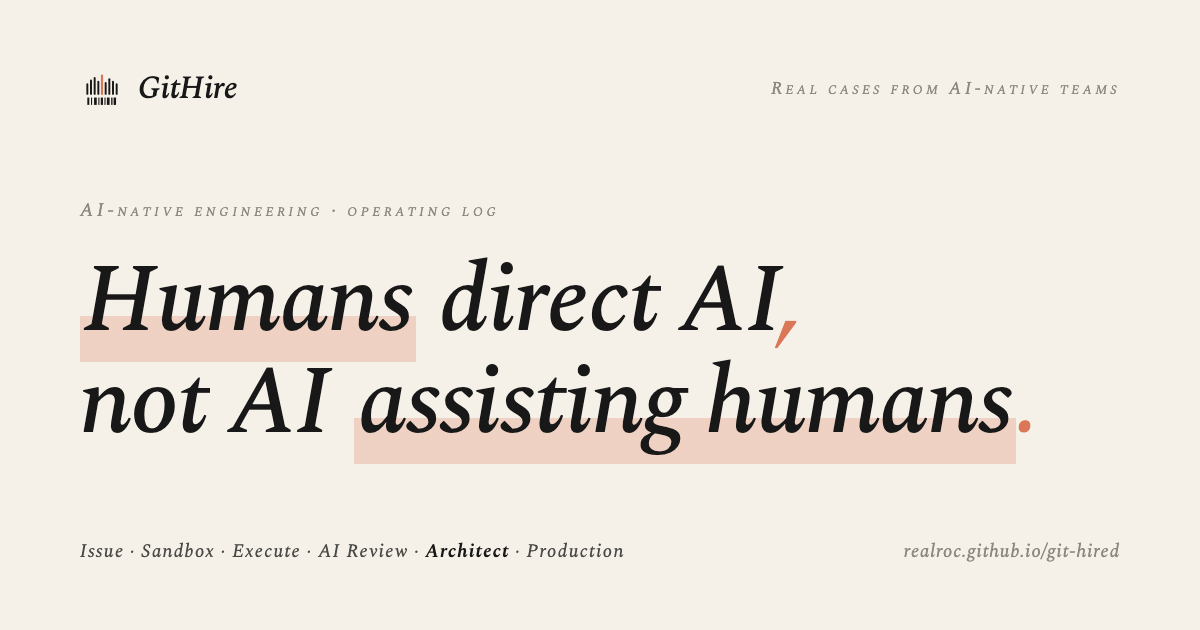
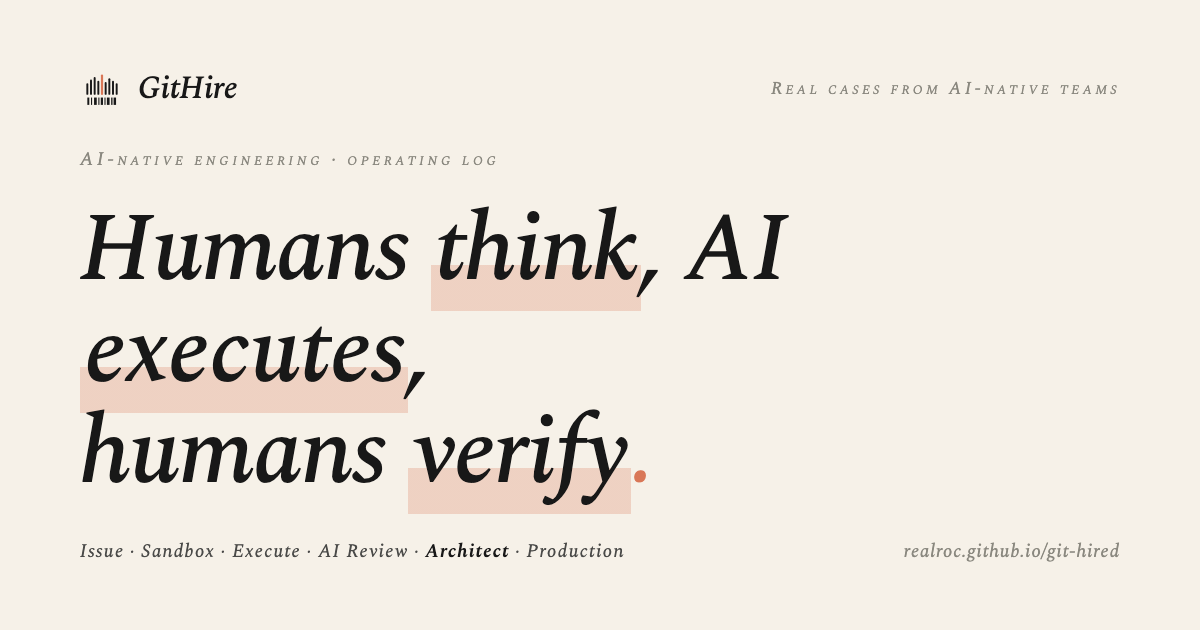
fix(review): OG 卡片同步新 slogan 并重新生成 og.png / og.en.png
og-card.html / og-card.en.html 的 hero 标题仍是旧 slogan，
导致社交分享图与全站新文案「人思考，AI 执行，人验收」不一致。
更新两份卡片源并用 Chrome headless 重渲染 docs/og.png、docs/og.en.png。

Reviewed-Comment: https://github.com/realRoc/git-hired/pull/28#issuecomment-4586841106

Changed region(s): [[0.0617, 0.3317, 0.8633, 0.8143], [0.0617, 0.2413, 0.4008, 0.2714]]

diff --git a/assets/og-card.en.html b/assets/og-card.en.html
@@ -167,8 +167,8 @@
   <section class="hero">
     <p class="hero-meta">AI-native engineering · operating log</p>
     <h1>
-      <em>Humans</em> direct AI<span class="period">,</span><br/>
-      not AI <em>assisting humans</em><span class="period">.</span>
+      Humans <em>think</em>, AI <em>executes</em>,<br/>
+      humans <em>verify</em><span class="period">.</span>
     </h1>
   </section>
 

diff --git a/assets/og-card.html b/assets/og-card.html
@@ -165,8 +165,8 @@
   <section class="hero">
     <p class="hero-meta">AI-native engineering · operating log</p>
     <h1>
-      <em>人指挥</em> AI <em>干活</em>，<br/>
-      不是 AI 辅助人<span class="period">.</span>
+      人<em>思考</em>，AI <em>执行</em>，<br/>
+      人<em>验收</em><span class="period">.</span>
     </h1>
   </section>
 
